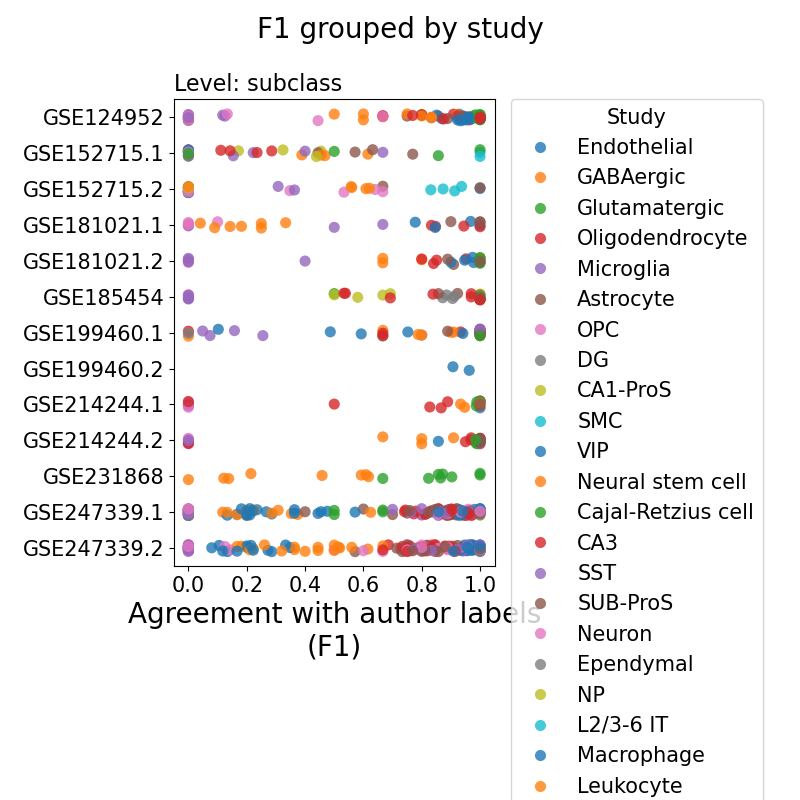
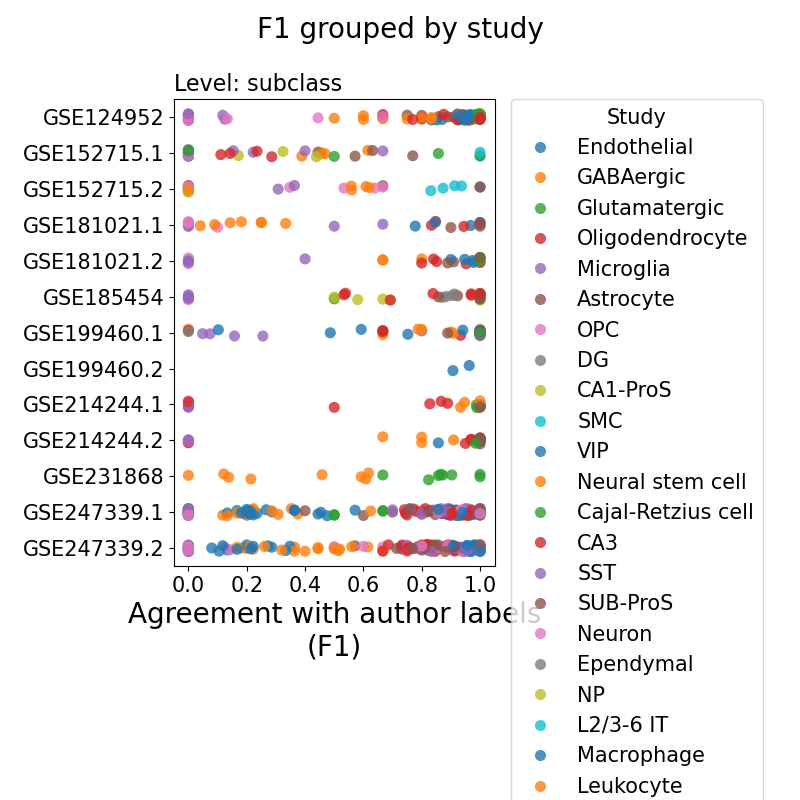
fix grant summary metrics error

diff --git a/bin/grant_summary.py b/bin/grant_summary.py
@@ -27,9 +27,9 @@ def parse_arguments():
 
     parser = argparse.ArgumentParser(description="Plot metrics for chosen pipeline parameters per study and celltype.")
     parser.add_argument('--remove_outliers', type=str, nargs='*', default=None, help="List of study names to remove as outliers")
-    parser.add_argument('--weighted_metrics', type=str, help="Path to weighted metrics TSV file", default="/space/grp/rschwartz/rschwartz/evaluation_summary.nf/2024-07-01/mus_musculus/100/dataset_id/SCT/gap_false/aggregated_results/weighted_f1_results.tsv")
-    parser.add_argument('--label_metrics', type=str, help="Path to label metrics TSV file", default="/space/grp/rschwartz/rschwartz/evaluation_summary.nf/2024-07-01/mus_musculus/100/dataset_id/SCT/gap_false/aggregated_results/label_f1_results.tsv")
-    parser.add_argument('--ref_keys', type=str, nargs='+', default=["subclass","class","family","global"], help="Reference keys to plot")
+    parser.add_argument('--weighted_metrics', type=str, help="Path to weighted metrics TSV file", default="/space/grp/rschwartz/rschwartz/evaluation_summary.nf/2024-07-01/homo_sapiens/100/dataset_id/SCT/gap_false/aggregated_results/weighted_f1_results.tsv")
+    parser.add_argument('--label_metrics', type=str, help="Path to label metrics TSV file", default="/space/grp/rschwartz/rschwartz/evaluation_summary.nf/2024-07-01/homo_sapiens/100/dataset_id/SCT/gap_false/aggregated_results/label_f1_results.tsv")
+    parser.add_argument('--ref_keys', type=str, nargs='+', default=["subclass","class","family"], help="Reference keys to plot")
     parser.add_argument('--subsample_ref', type=int, default=500, help="Subsample reference value")
     parser.add_argument('--cutoff', type=float, default=0, help="Cutoff value")
     parser.add_argument('--reference', type=str, default="whole cortex", help="Reference name")
@@ -210,15 +210,16 @@ def main():
     
     # Summary of means and SDs for all metrics across all studies (weighted)
     weighted_summary = weighted_filtered[metrics_to_agg_weighted + ["key"]].groupby('key').agg(['mean', 'std']).T.reset_index()
-    # set column names
-    weighted_summary.columns = ['metric', 'stat'] + ref_keys
+    # set column names for only the first two columns
+    
+    weighted_summary.columns = ['metric', 'stat']  + weighted_summary.columns.tolist()[2:]
     weighted_summary.to_csv(f'{outdir}/sample_metrics_summary_overall.tsv', sep='\t', index=False)
 
     # Summary of means and SDs for all metrics across all cell types (label)
     # stratify by "key"
     label_summary = label_filtered[metrics_to_agg_label + ["key"]].groupby('key').agg(['mean', 'std']).T.reset_index()
     # set column names
-    label_summary.columns = ['metric', 'stat'] + ref_keys
+    label_summary.columns = ['metric', 'stat'] + weighted_summary.columns.tolist()[2:]
     label_summary.to_csv(f'{outdir}/label_metrics_summary_overall.tsv', sep='\t', index=False)
     
     weighted_long = aggregate_metrics_long(
